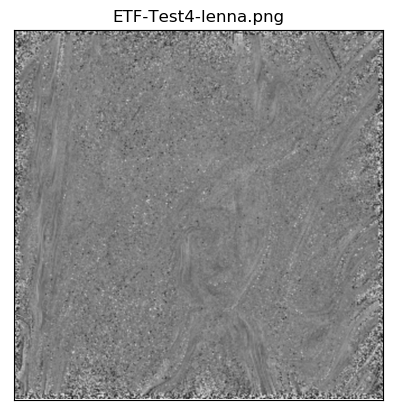
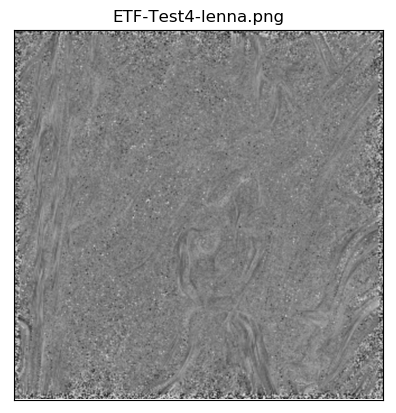
[Add] Add ETF

diff --git a/edge-detection/ETF.py b/edge-detection/ETF.py
@@ -88,13 +88,31 @@ class Main:
                 gx /= 9
                 gy /= 9
 
-                if gx == 0.0 and gy == 0.0:
-                    gx = 1.0
 
                 # mg = math.sqrt(gx ** 2 + gy ** 2)
                 # if mg != 0:
                 #     sobel_gradient_vector_field[h][w] = [gx / mg, gy / mg]
                 sobel_gradient_vector_field[h][w] = [gx, gy]
+
+        coordlist = []
+        for j in range(-10, 11):
+            for i in range(-10, 11):
+                coordlist.append((i, j))
+
+        for j in range(len(coordlist) - 1, 1, -1):
+            for i in range(0, j - 1):
+                if coordlist[i][0] ** 2 + coordlist[i][1] ** 2 > coordlist[i + 1][0] ** 2 + coordlist[i + 1][1] ** 2:
+                    coordlist[i], coordlist[i + 1] = coordlist[i + 1], coordlist[i]
+
+        for h in range(1, self.height - 1):
+            for w in range(1, self.width - 1):
+                if sobel_gradient_vector_field[h][w][0] == 0.0 and sobel_gradient_vector_field[h][w][1] == 0.0:
+                    for temp in coordlist:
+                        if (0 < w + temp[0] <self.width -1) and (0 < h + temp[1] <self.height -1):
+                            if sobel_gradient_vector_field[h][w + temp[0]][0] != 0 and sobel_gradient_vector_field[h + temp[1]][w][1] != 0:
+                                sobel_gradient_vector_field[h][w][0] = sobel_gradient_vector_field[h][w + temp[0]][0]
+                                sobel_gradient_vector_field[h][w][1] = sobel_gradient_vector_field[h + temp[1]][w][1]
+                                break
 
         return sobel_gradient_vector_field
 
@@ -307,8 +325,6 @@ class Main:
                 t_new = [0.0, 0.0]
                 k = 0.0
 
-                if (h == 5 and w == 97):
-                    print()
 
                 # Eq(1)
                 for r in range(h - ksize, h + ksize):
@@ -324,38 +340,25 @@ class Main:
                         t_new[1] += phi * t_cur_y[1] * ws * wm * wd
                         k += phi * ws * wm * wd
 
-                ''' t_new를 normalize 한다 ! '''
-                # print(type(t_new[0]))
-                # print(type(k))
                 tx = float(t_new[0])
                 ty = float(t_new[1])
-
-                if (k==0):
-                    print(h, w)
-
                 tx /= k
                 ty /= k
-                # refined_field[h][w][0] = t_new[0]
-                # refined_field[h][w][1] = t_new[1]
                 refined_field[h][w][0] = tx
                 refined_field[h][w][1] = ty
 
         return refined_field
 
     def __main__(self):
-        # JUST 1 ITERATION FOR TEST
-
         self.white_noise()
         self.init_ETF()
-        field = self.refine_ETF(5)
-        field2 = self.refine_ETF(5, field)
-        field3 = self.refine_ETF(5, field2)
-        self.gradient_vector_field = self.refine_ETF(5, field3)
+        self.gradient_vector_field = self.refine_ETF(5)
 
         # self.gradient_vector_field   # refine 두세번째에 여기 대입
-
-        self.lic(30, 1)
-        file_name = 'ETF-Test4-' + self.name
+        length = 20
+        ds = 0.25
+        self.lic(length, ds)
+        file_name = 'ETF-2-length' + str(length) + '-ds' + str(ds) + '-' + self.name
 
         # UI
         plt.subplot()
